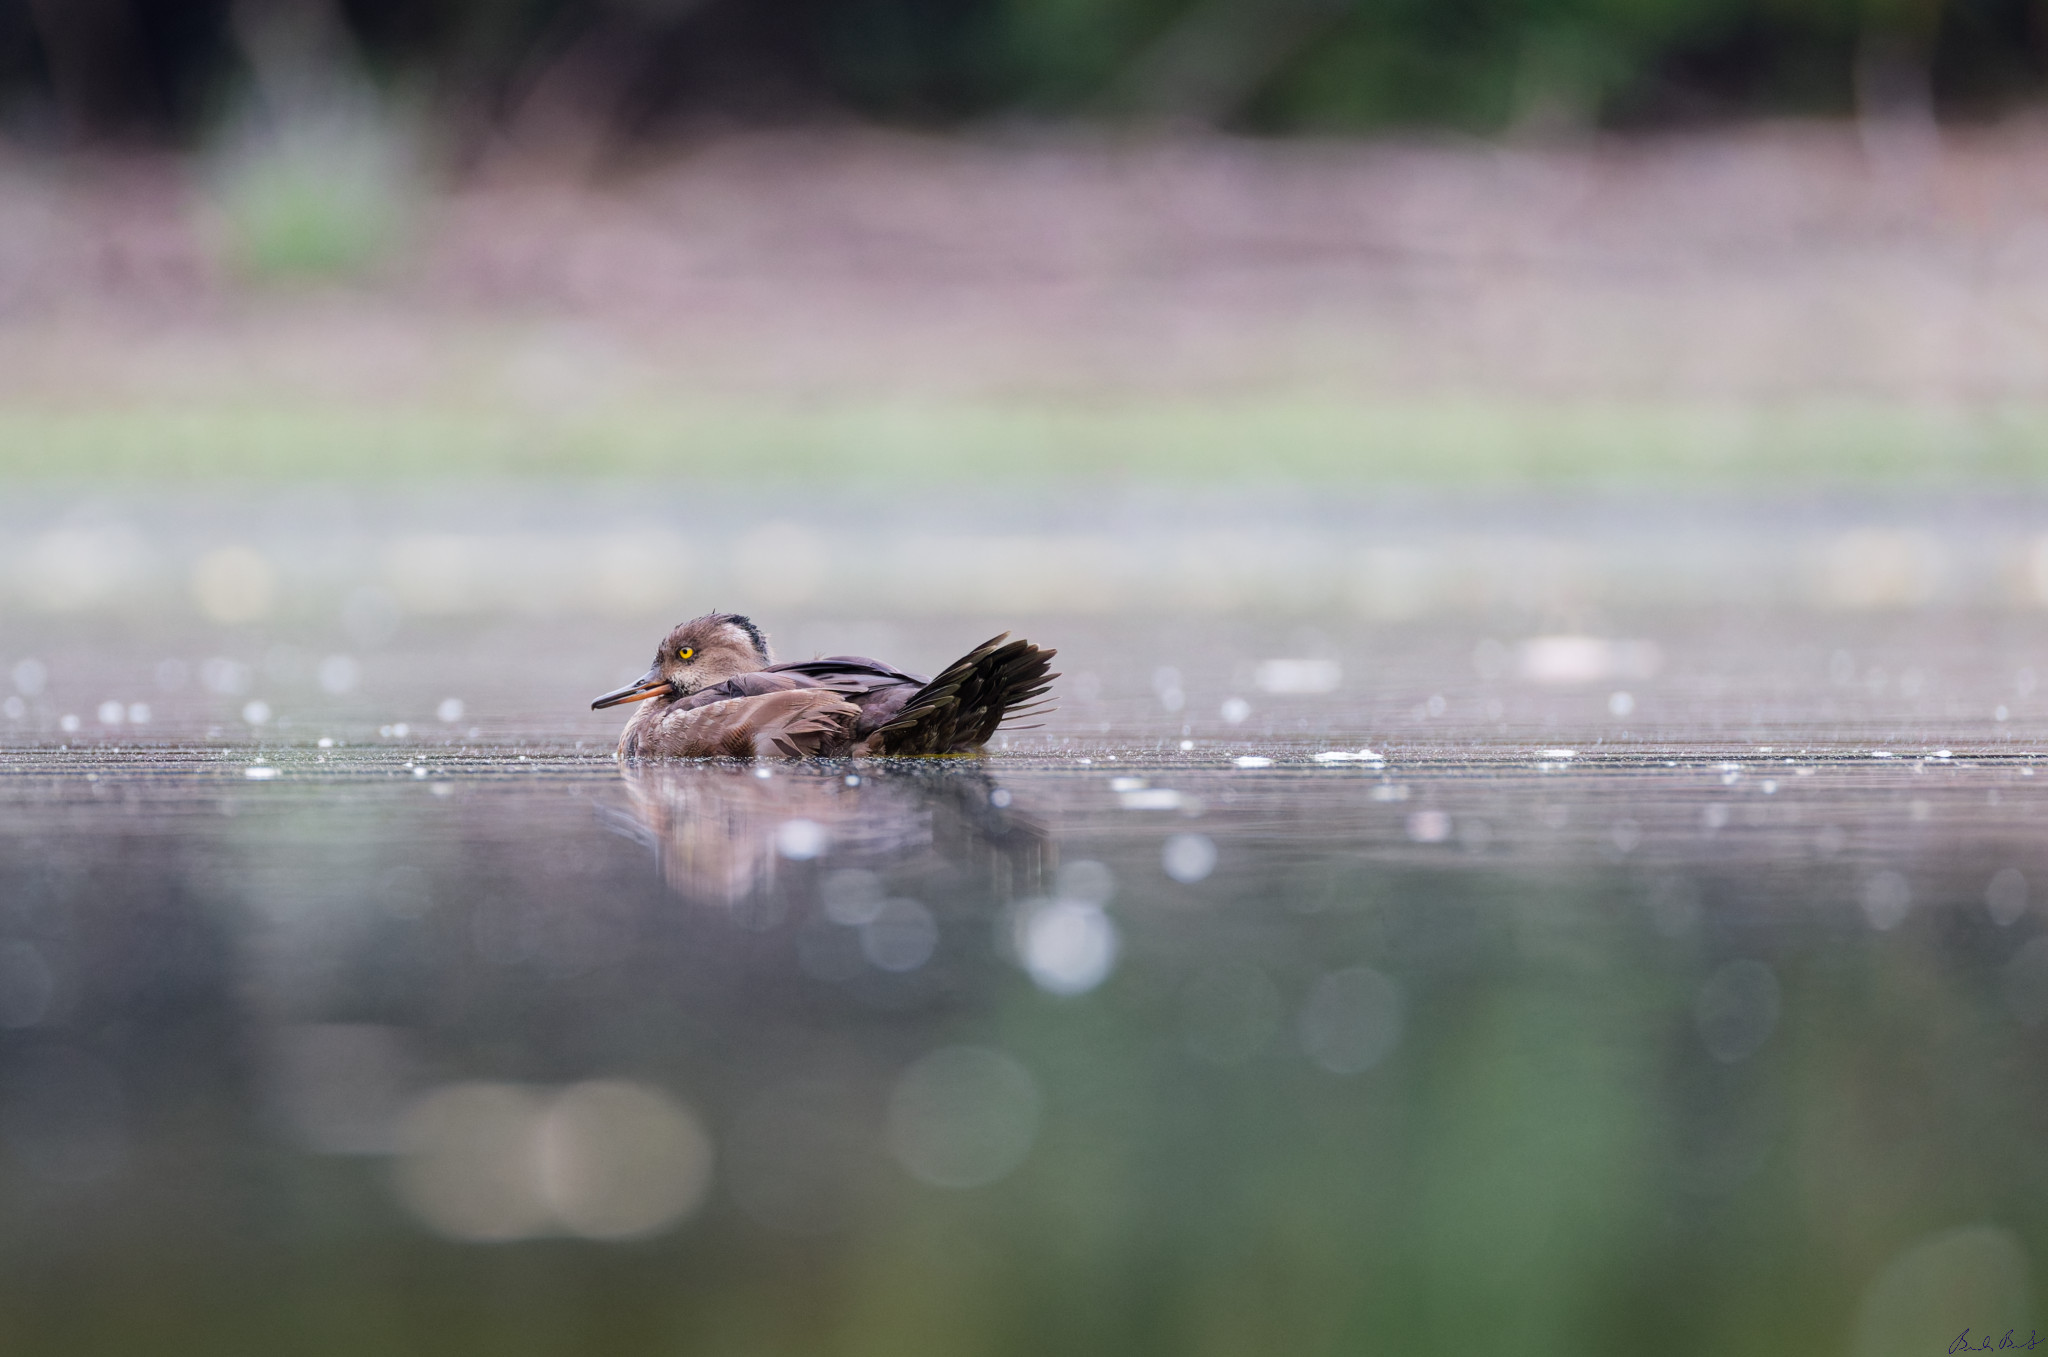
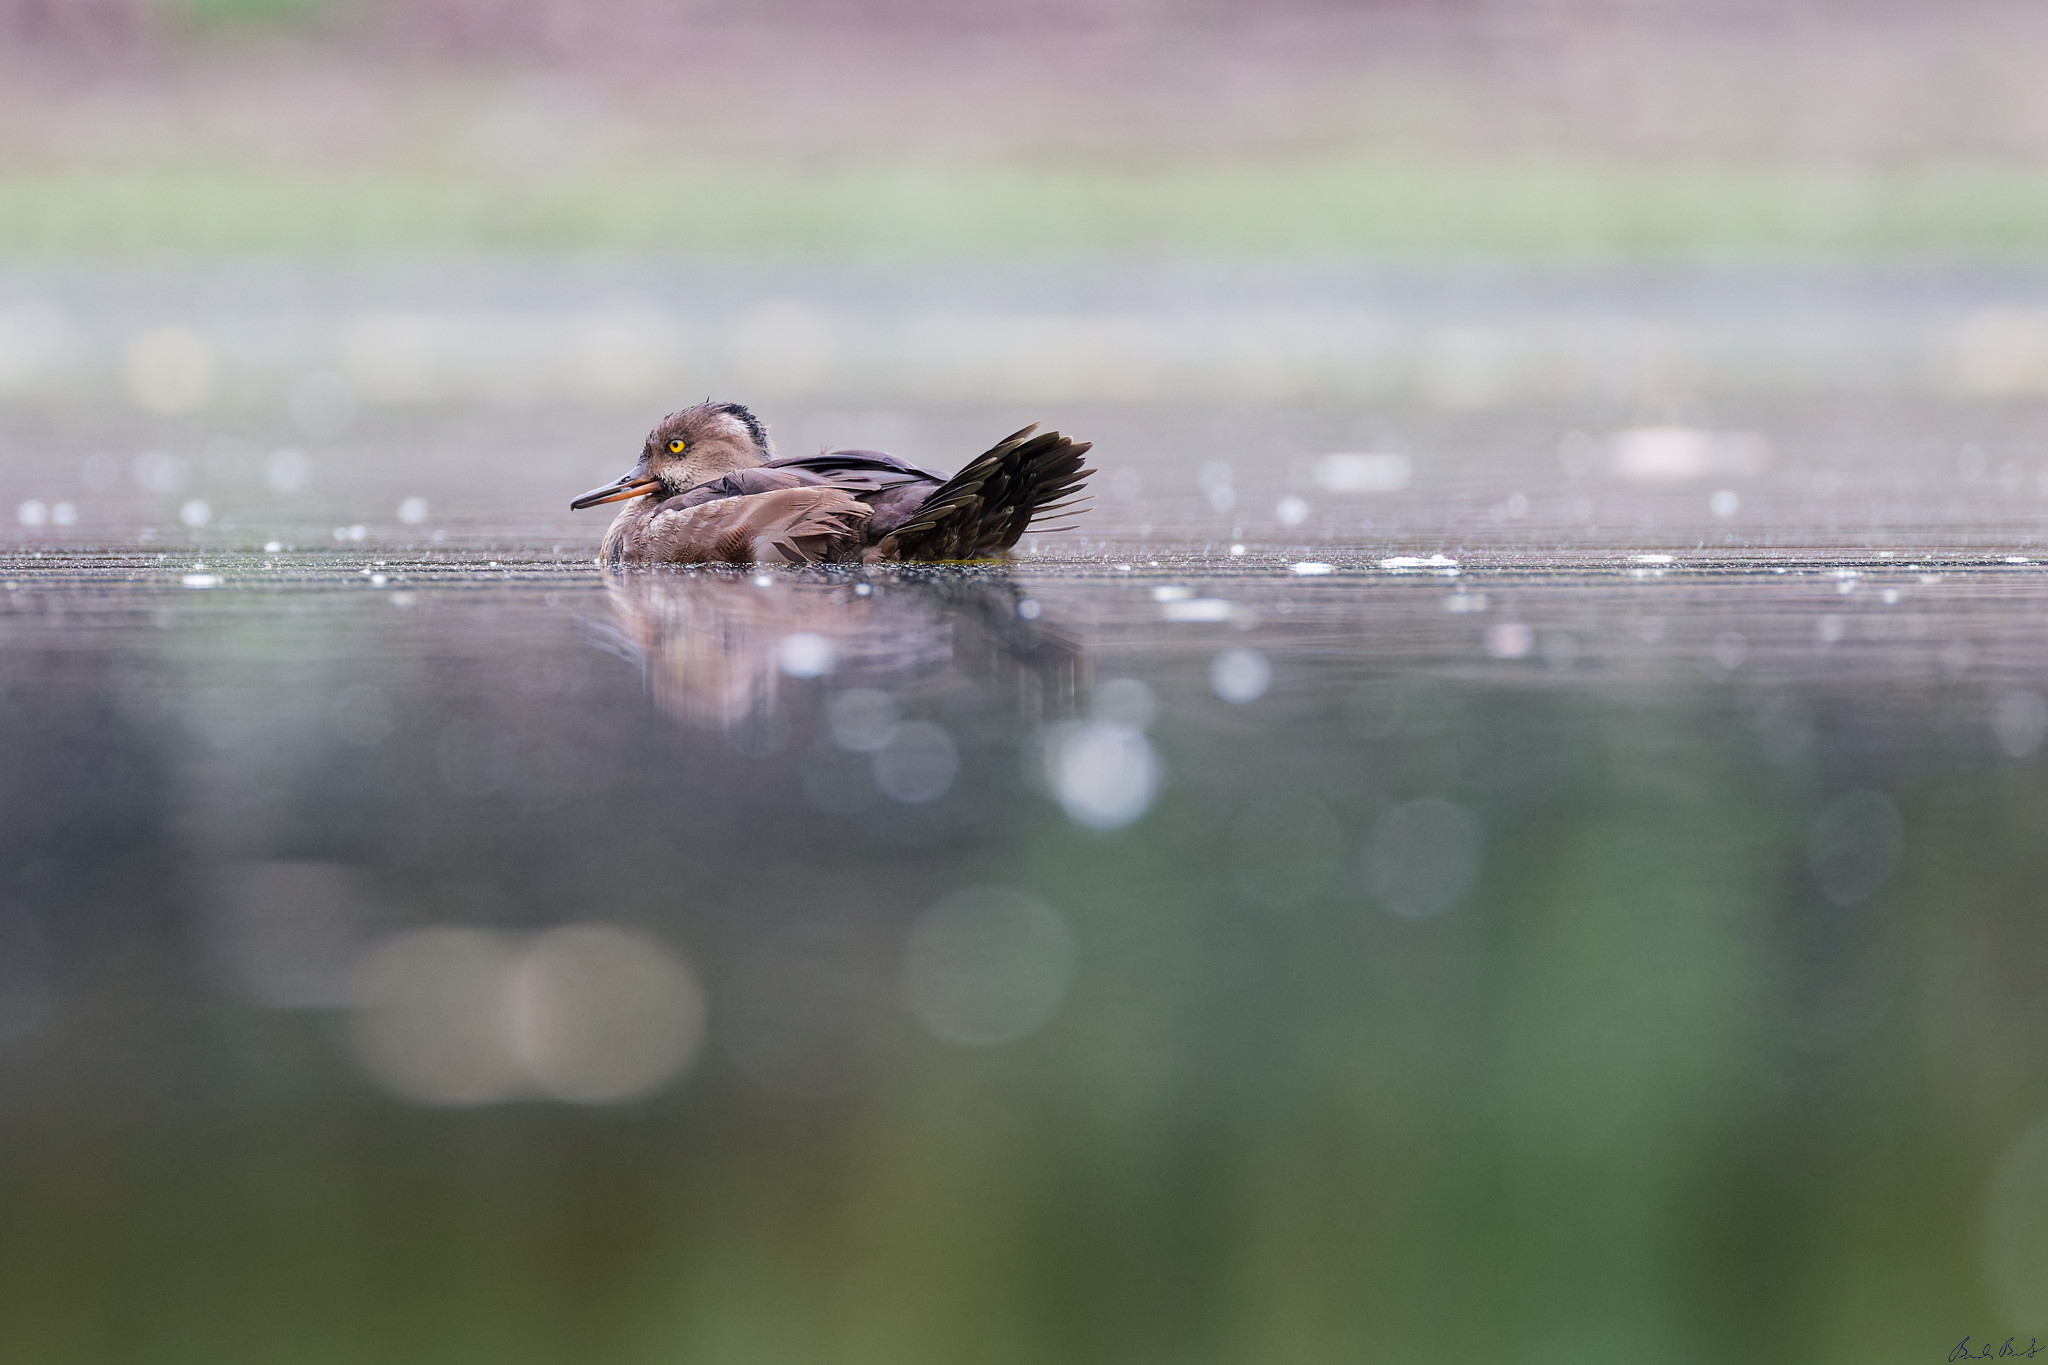
Update header layout for improved responsiveness and add new photos to the gallery

diff --git a/index.html b/index.html
@@ -35,7 +35,7 @@
       }
         div#headpane {
             display: flex;
-            flex-direction: column;
+            flex-direction: row;
             align-items: flex-start;
             justify-content: flex-start;
             min-height: 0;
@@ -72,7 +72,8 @@
             flex: none;
             width: 92px;
             height: auto;
-            margin: 12px 0 0;
+          order: -1;
+          margin: 0 24px 0 0;
         }
         div#headpane #mainpic img {
             display: block;
@@ -82,13 +83,14 @@
         }
         @media (max-width: 640px) {
           div#headpane {
+              flex-direction: row;
               min-height: 0;
               aspect-ratio: 16 / 9;
               padding: 18px;
           }
           div#headpane #mainpic {
               width: 76px;
-              margin-top: 10px;
+              margin: 0 16px 0 0;
           }
           div#headpane #mainpic img {
               width: 76px;

diff --git a/photography.html b/photography.html
@@ -41,6 +41,8 @@
     <main id="photography-content">
       <h1>Photography</h1>
       <div class="photo-gallery">
+        <a href="pics/photos/118A5208_DxO.jpg"><img src="pics/photos/118A5208_DxO.jpg" alt="Photograph by Brandon Benton"></a>
+        <a href="pics/photos/118A5221_DxO.jpg"><img src="pics/photos/118A5221_DxO.jpg" alt="Photograph by Brandon Benton"></a>
         <a href="pics/photos/118A5206_DxO.jpg"><img src="pics/photos/118A5206_DxO.jpg" alt="Photograph by Brandon Benton"></a>
         <a href="pics/photos/118A5115_DxO.jpg"><img src="pics/photos/118A5115_DxO.jpg" alt="Photograph by Brandon Benton"></a>
         <a href="pics/photos/118A5808_DxO.jpg"><img src="pics/photos/118A5808_DxO.jpg" alt="Photograph by Brandon Benton"></a>
